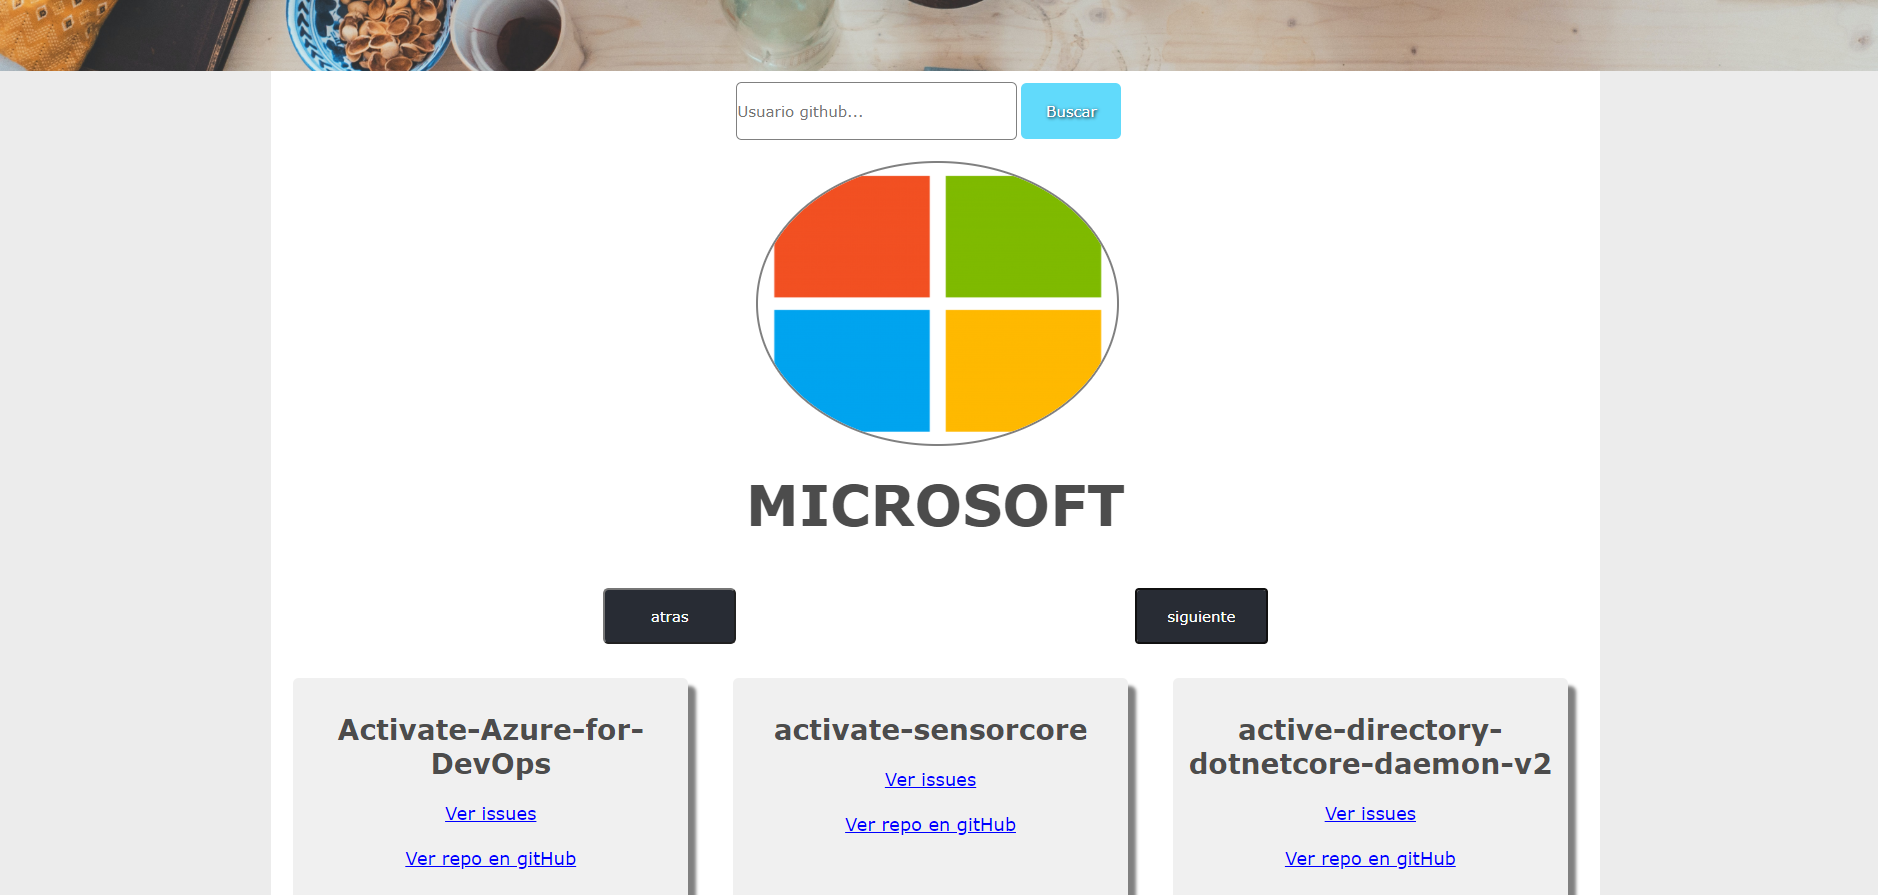
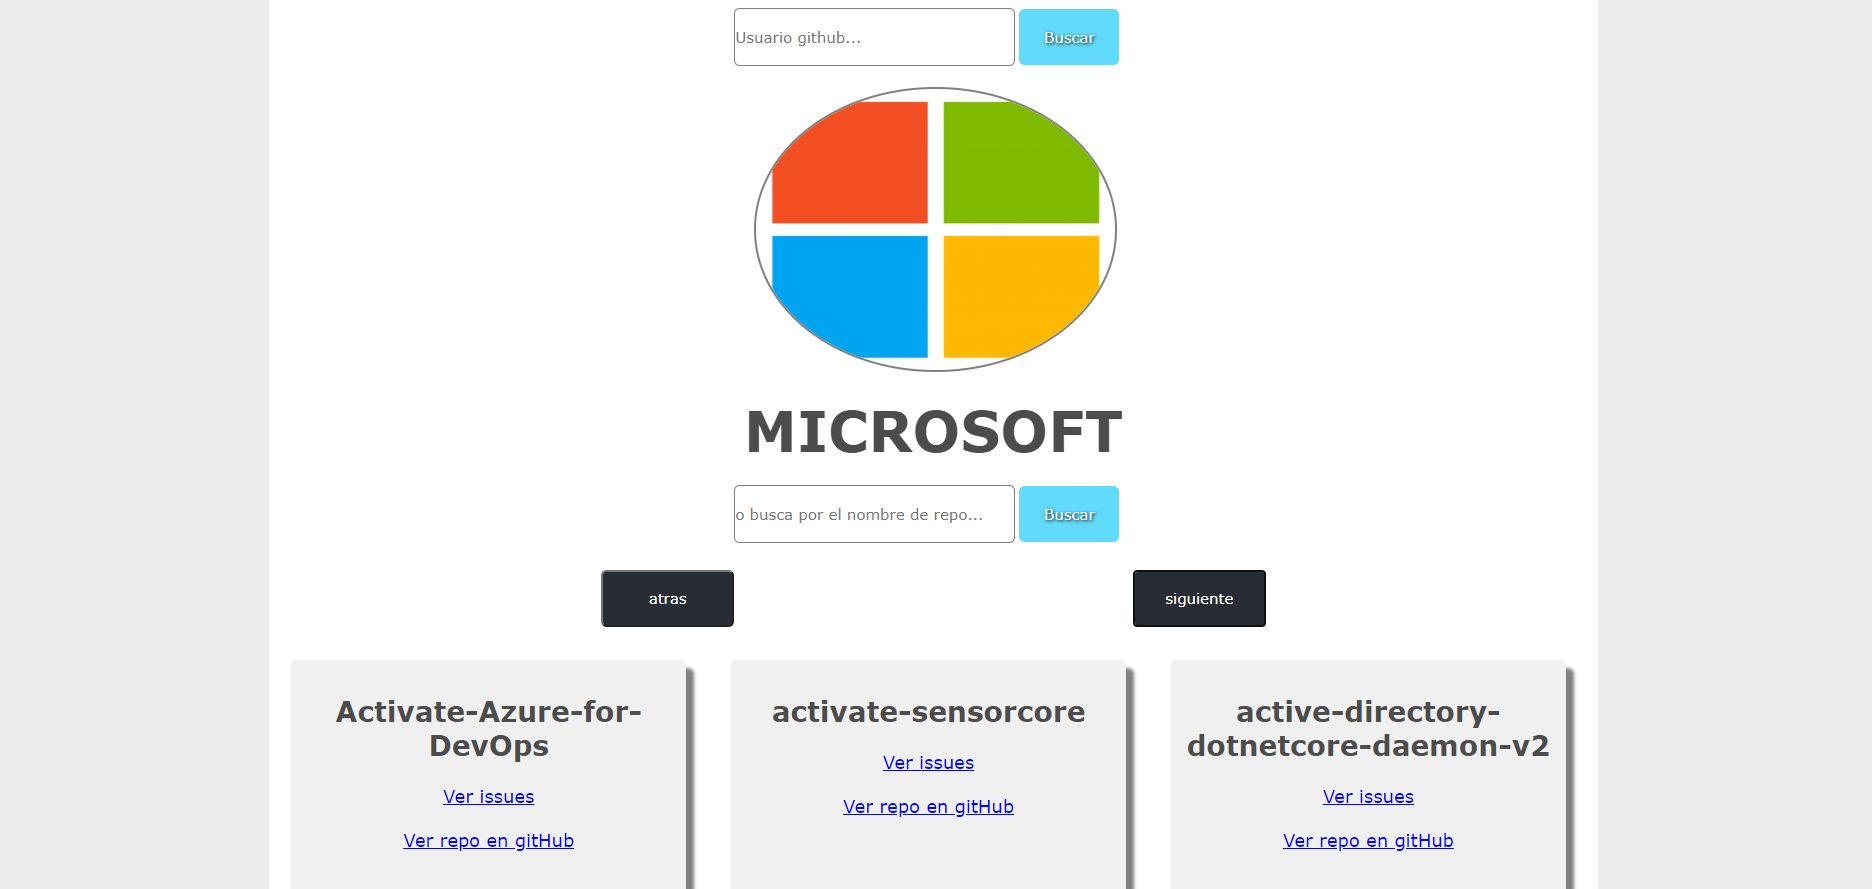
agregado buscar por repositorio

diff --git a/src/app/pages/inicio/inicio.component.ts b/src/app/pages/inicio/inicio.component.ts
@@ -11,10 +11,12 @@ import {enviroment} from '../../../../enviroment.prod'
 })
 export class InicioComponent implements OnInit,DoCheck {
 
-  public nombre:String;
+  public nombre:String; //variable para buscar todos los repositorios por usuario
   public mostrarDatos:Boolean; //variable para mostra los divs escondidos
-  // public datosUsuarios: Array<Object>;
-  public datosUsuarios:any[];
+  public mostrarTodosRepos:Boolean;//variable qeu cargara el div que SI tiene el ngfor
+  public mostrarUnRepo:Boolean; //variable que cargara el div que No tiene ngFor
+  public nombreRepo:String; //varaible del formulario para buscar pro repositorio
+  public datosUsuarios:any;
   public imagenUsuario:String; //imagen del usuario del git
   public nombreUsuario:String //nombre del usuario git
   public contadorPagina:number; //para el paginado
@@ -26,6 +28,7 @@ export class InicioComponent implements OnInit,DoCheck {
 
   ngOnInit(): void {
     this.mostrarDatos = false;
+    this.mostrarUnRepo = false;
     this.contadorPagina = 1;
   };
 
@@ -33,10 +36,9 @@ export class InicioComponent implements OnInit,DoCheck {
 
   };
   
-  //funcion para el formulñario
+  //buscar repositorios por usuarios
   handleSubmit(){
-    event.preventDefault();
-    
+    event.preventDefault();    
     //si la variable esta vacia, retorna
     if(!this.nombre){
       alert('Rellene el campo de texto');
@@ -50,7 +52,6 @@ export class InicioComponent implements OnInit,DoCheck {
         alert('No se ha encontraod usuario');
       }else{
         this.mostrarDatos = true; 
-        console.log(response)
         this.imagenUsuario = response.avatar_url
         this.nombreUsuario = response.login
         this.ruta = response.repos_url;
@@ -62,6 +63,34 @@ export class InicioComponent implements OnInit,DoCheck {
 
     //vacaimos el input
     this.nombre = ''
+  };
+
+  //buscar por repositorio
+  handleSubmitBuscarRepo(){
+    event.preventDefault();  
+    if(!this.nombreRepo){
+      alert('Rellene el nombre del repo')
+    }else{
+      // enviroment.rutarepos+this.usuarioGit+'/'+this.repoGit
+      getGitData(enviroment.rutarepos+this.nombreUsuario+'/'+this.nombreRepo)
+      .then((response:any) => {
+        //si la respuesta tiene mensaje signuifica que no hay datos
+        if(!response.message){
+          //hacemos que el div que tiene el ngFor sea false para que no se cargue
+          this.mostrarTodosRepos = false;
+          //y el div que no tiene, se carge
+          this.mostrarUnRepo = true;
+          this.datosUsuarios = response
+          console.log('aqui')
+          console.log(this.datosUsuarios.name)         
+        }else{
+          alert('No existe ese repositorio')
+        }        
+      })
+      .catch(err => console.log(err))
+    }
+    //limpiamos el campo de texto
+    this.nombreRepo = ''
   };
 
   //funcion para el boton atras
@@ -79,7 +108,7 @@ export class InicioComponent implements OnInit,DoCheck {
 
   //funcion para el boton siguiente
   handleCLickSiguientes(){
-    
+    //si la longitud del array es mebnos de 30 significa que no hay mas proeyctos, por lo tanto no podra dar siguiente    
     if(this.datosUsuarios.length < 30){
       alert('No hay mas repositorios')
     }else{
@@ -94,9 +123,11 @@ export class InicioComponent implements OnInit,DoCheck {
   funcionFetch(pagina){
     getGitData(this.ruta +`?page=${this.contadorPagina}&per_page=30`)
     .then((response:any) => {
-       this.datosUsuarios = [];
+      //hacemos que el div que tiene el ngFor sea false para que se cargue
+       this.mostrarTodosRepos = true;
+       //y el div que no lo tiene no se cargue
+       this.mostrarUnRepo = false;
        this.datosUsuarios = response
-      //  console.log(this.datosUsuarios)
     })
     .catch(err => console.log(err))
   }

diff --git a/src/app/pages/inicio/inicio.component.html b/src/app/pages/inicio/inicio.component.html
@@ -1,8 +1,8 @@
 <section class="sectionInicio">
 
     <form class="formBuscador" (submit)="handleSubmit()" action="" method="" enctype="">
-        <input [(ngModel)]="nombre" type="text" name="nombre" placeholder="Usuario github..."/>
-        <input type="submit" value="Buscar"/>
+        <input [(ngModel)]="nombre" class="campoTextoFormulario" type="text" name="nombre" placeholder="Usuario github..."/>
+        <input class="campoBotonFormulario" type="submit" value="Buscar"/>
     </form>
     
     <div class="divDatosUsuario" *ngIf="mostrarDatos">        
@@ -13,18 +13,36 @@
         <div class="nombreUsuarioGit">
             <h3>{{nombreUsuario.toLocaleUpperCase()}}</h3>
         </div>
+
+        <form (submit)="handleSubmitBuscarRepo()" accept="" method="" enctype="">
+            <input [(ngModel)]="nombreRepo" class="campoTextoFormulario"  type='text' name="repos" placeholder="o busca por el nombre de repo...">
+            <input class="campoBotonFormulario" type='Submit' value="Buscar">
+        </form>
     </div>
+   
 
     <div *ngIf="mostrarDatos">
         <div class="divBotones">
             <input (click)="handleCLickAtras()" type='button' value="atras">
             <input (click)="handleCLickSiguientes()" style="margin-left: 60%;" type='button' value="siguiente">
         </div>
-        <div  class="divDatosGit"  *ngFor="let index of datosUsuarios" >
-            <p>{{index.name}}</p>
-            <a [routerLink]="['/issues',index.owner.login,index.name ]">Ver issues</a>
-            <a [href]="index.html_url">Ver repo en gitHub</a>
+
+        <div *ngIf="mostrarTodosRepos">
+            <div  class="divDatosGit"  *ngFor="let index of datosUsuarios" >
+                <p>{{index.name}}</p>
+                <a [routerLink]="['/issues',index.owner.login,index.name ]">Ver issues</a>
+                <a [href]="index.html_url">Ver repo en gitHub</a>
+            </div>
         </div>
+
+        <div *ngIf="mostrarUnRepo">
+            <div  class="divDatosGit"  >
+                <p>{{datosUsuarios.name}}</p>
+                <a [routerLink]="['/issues',datosUsuarios.owner.login,datosUsuarios.name ]">Ver issues</a>
+                <a [href]="datosUsuarios.html_url">Ver repo en gitHub</a>
+            </div>
+        </div>
+        
 
     </div>
     

diff --git a/src/app/pages/inicio/inicio.component.css b/src/app/pages/inicio/inicio.component.css
@@ -15,7 +15,7 @@
     float: left;
 }
 
-.formBuscador input[type='text']{
+.campoTextoFormulario{
     width: 70%;
     height: 50px;
     border-radius: 5px;
@@ -23,7 +23,7 @@
     border: 1px solid gray;
 }
 
-.formBuscador input[type='submit']{
+.campoBotonFormulario{
     width: 25%;
     margin-left: 1%;
     height: 50px;
@@ -35,7 +35,7 @@
     cursor: pointer;
 }
 
-.formBuscador input[type='submit']:hover{
+.campoBotonFormulario:hover{
     background: #A3DAF1;
 }
 
@@ -44,8 +44,18 @@
     margin-left: 35%;
     margin-top: 20px;
     /* background: burlywood; */
-    height:370px;
+    height:420px;
     float: left;
+}
+
+.divDatosUsuario form{
+    width: 100%;
+    height: 50px;
+    float: left;
+}
+
+.divDatosUsuario form input[type='text']{
+
 }
 
 .imagenUsuarioGit{

diff --git a/src/app/pages/issues/issues.component.html b/src/app/pages/issues/issues.component.html
@@ -18,3 +18,5 @@
 
 </section>
 
+<!-- https://api.github.com/repos/microsoft/0xDeCA10B/issues/93 -->
+<!-- https://api.github.com/repos/microsoft/0xDeCA10B/issues/93/comments -->

diff --git a/src/app/pages/issues/issues.component.css b/src/app/pages/issues/issues.component.css
@@ -100,7 +100,3 @@
 .enhancement{
     background: #77EEF1;
 }
-
-.sinEstilo{
-    background: ;
-}

diff --git a/README.md b/README.md
@@ -18,13 +18,17 @@ El proyecto busca usuarios del git y pinchando en cada repositorio mostraria las
 <img src="https://github.com/crislaez/Proyecto_Irontec/blob/master/src/assets/foto_proyecto_5.PNG" />
 <img src="https://github.com/crislaez/Proyecto_Irontec/blob/master/src/assets/foto_proyecto_6.PNG" />
 <hr>
--3 podemos pinchar en ver repo en git que nos llevaria al repo en el mismo github,  o podemos 
+
+-3 tambienb podremos buscar por repos una vez buscado al usuario.
+<img src="https://github.com/crislaez/Proyecto_Irontec/blob/master/src/assets/foto_proyecto_8.PNG" />
+<hr>
+-4 podemos pinchar en ver repo en git que nos llevaria al repo en el mismo github,  o podemos 
   dar a ver 'Ver issues' y nos llevara a la pagina /issues del mismo projecto, donde nos los mostrara, si no tiene issues, nos avisara con un alert y nos redireccionara a la pagina anterior para pedir el nombre del usuario del git
 <img src="https://github.com/crislaez/Proyecto_Irontec/blob/master/src/assets/foto_proyecto_4.PNG" />
 <img src="https://github.com/crislaez/Proyecto_Irontec/blob/master/src/assets/foto_proyecto_7.PNG" />
 <hr>
 
--4 si pinchamos en cada titulo del issue nos llevara a github para ver os comentarios
+-5 si pinchamos en cada titulo del issue nos llevara a github para ver os comentarios
 
  
 ### Donde pueden recibir ayuda los usuarios con el proyecto
